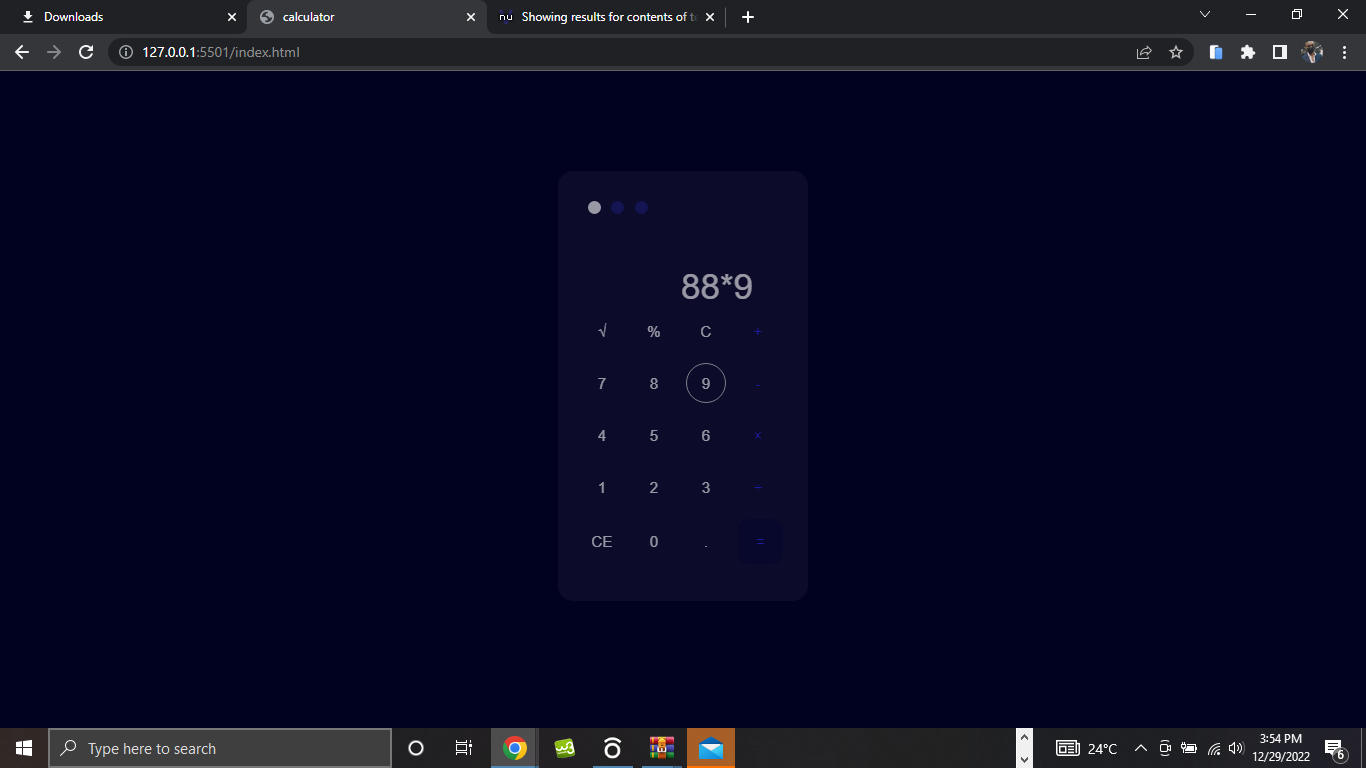
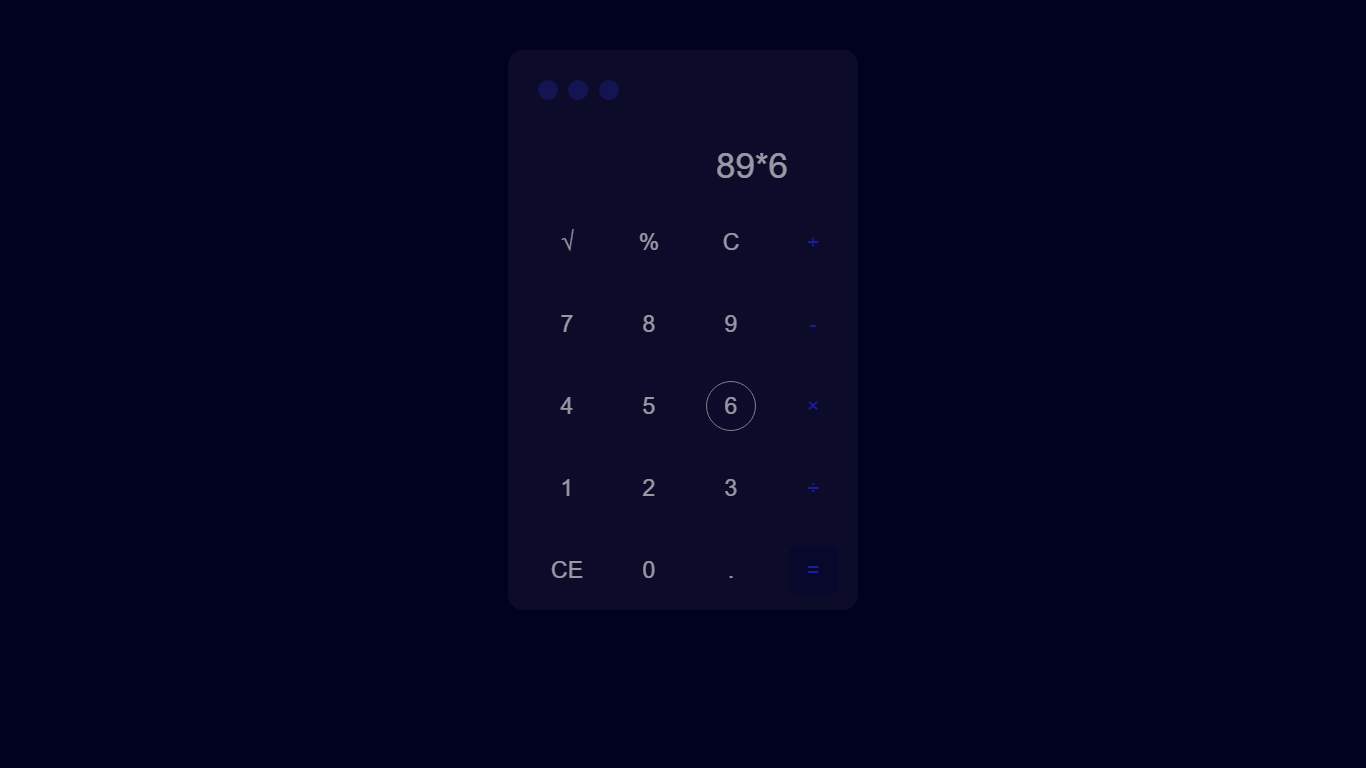
first-commit

diff --git a/style.css b/style.css
@@ -8,14 +8,15 @@ body{
     background-size: 400% 400%;
     font-family: 'inter', sans-serif;
     color:#fff;
+    transition: .5s;
 }
 .calculator{
     position: relative;
-    top:100px;
+    top:50px;
     left:0;
     right:0;
-    width:250px;
-    height:430px;
+    width:350px;
+    height:560px;
     margin:auto;
     border-radius: 15px;
     opacity: 0.6;
@@ -29,8 +30,8 @@ body{
 }
 
 .theme{
-    width:13px;
-    height:13px;
+    width:20px;
+    height:20px;
     border-radius: 100%;
     background-color: #202074;
     display:inline-block;
@@ -44,7 +45,7 @@ body{
 
 .calculator-screen  .screen{
     position: absolute;
-    margin: 70px 15px 00px 5px;
+    margin: 70px 10px 00px 5px;
     text-align: end;
     right:0;
     top:20px;
@@ -53,7 +54,7 @@ body{
     height:12%;
     background-color: transparent;
     color:rgb(255, 255, 255);
-    transition:font-size .3s;
+    transition: .3s;
    
 }
 
@@ -72,12 +73,12 @@ body{
     padding:7px;
 }
 button{
-    font-size: 15px;
+    font-size: 23px;
     color:#fff;
     text-align: center;
-    width:40px;
-    margin:5px;
-    height:40px;
+    width:50px;
+    margin:15px;
+    height:50px;
     text-align: center;
     border-radius: 100%;
     background-color:  transparent;
@@ -90,7 +91,7 @@ button:focus{
     border:1px solid lightgrey;
 }
 table{
-    margin-top: 85px;
+    margin-top: 95px;
 
 }
 .right-btn{
@@ -100,8 +101,8 @@ table{
 }
 .equal-sign{
     border-radius: 10px;
-    width:45px;
-    height:45px;
+    width:50px;
+    height:50px;
     background-color:  #0c0c36;
     color:#2e2ef3;
     transition: .5s;

diff --git a/script.js b/script.js
@@ -55,10 +55,10 @@ function btn(number) {
     var replaced;
 
     // Sets the max length of inputs to 21 
-    if (Myscreen.innerText.length==21) {
+    if (Myscreen.innerText.length==30) {
         return false;
     }
-   else if (Myscreen.innerText !=""  && Myscreen.innerText.length == 7) {
+   else if (Myscreen.innerText !=""  && Myscreen.innerText.length == 12) {
         document.getElementById('Myscreen').style.fontSize="20px";
 
     }
@@ -267,7 +267,7 @@ function MyAnswer() {
     Myscreen = document.getElementById("Myscreen");
 
     Myscreen.innerText;
-        document.getElementById('Myscreen').style.fontSize="15px";
+        document.getElementById('Myscreen').style.fontSize="20px";
     if (Myscreen.innerText.includes('√')) {
       var  MyAnswer = Math.sqrt(Myscreen.innerText.slice(1));
         Myscreen.innerText = MyAnswer;

diff --git a/index.html b/index.html
@@ -6,6 +6,7 @@
     <meta http-equiv="X-UA-Compatible" content="IE=edge">
     <meta name="viewport" content="width=device-width, initial-scale=1.0">
     <link rel="stylesheet" href="style.css">
+    <link rel="stylesheet" href="mobile.css">
     <script src="script.js"></script>
     <title>calculator</title>
 </head> 
